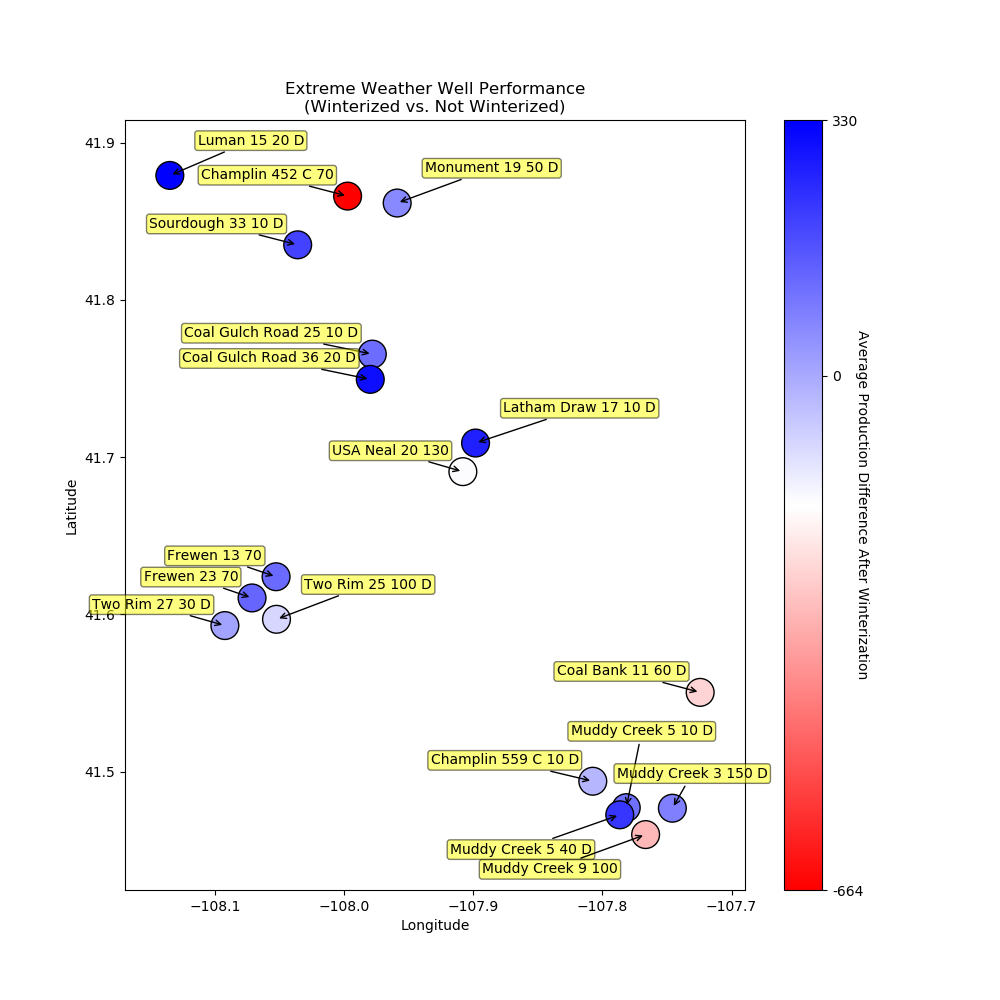
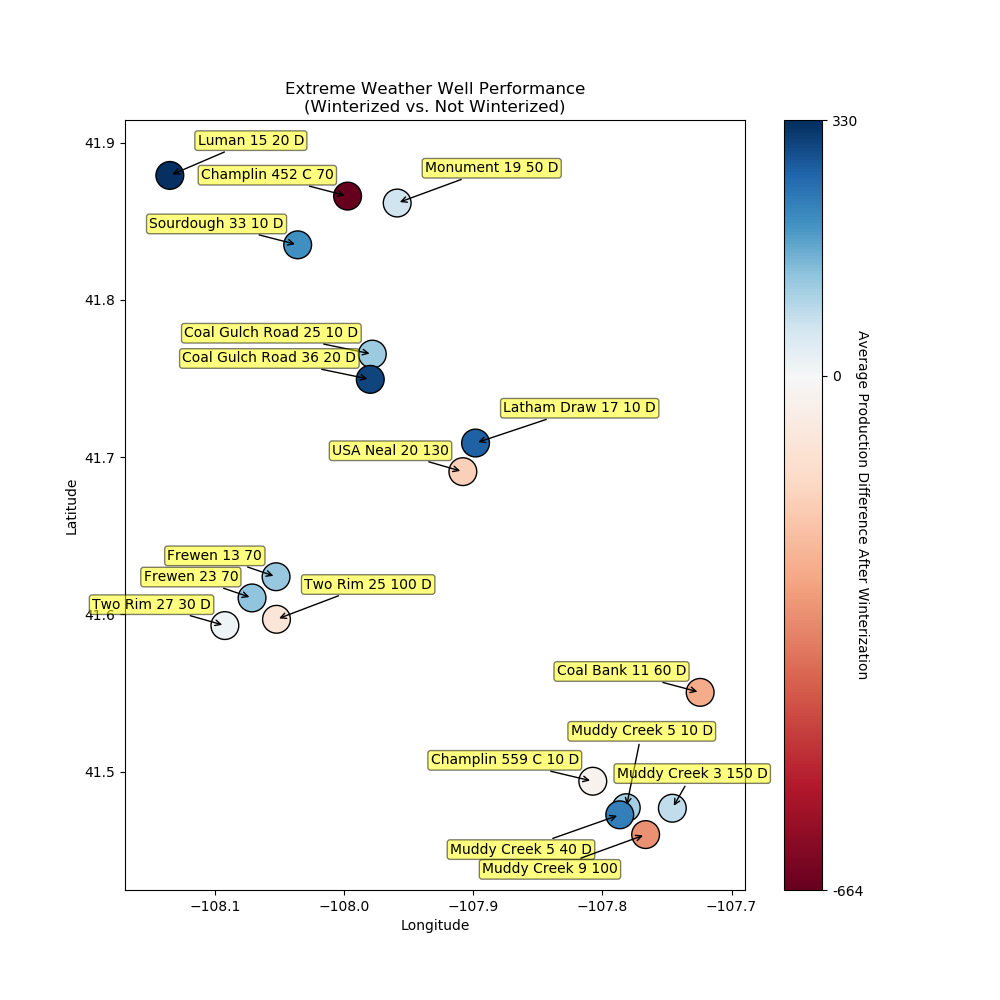
centering colorbar

diff --git a/winterize.py b/winterize.py
@@ -3,6 +3,7 @@ import numpy as np
 import pyodbc
 import sys
 import scipy.stats as stats
+import matplotlib
 import matplotlib.pyplot as plt
 
 
@@ -179,8 +180,39 @@ def loc_plot(df, date, worst=False):
 	plot_facility = plot_facility.groupby('FacilityName', as_index=False).agg(func)
 	plot_facility.columns = plot_facility.columns.droplevel(1)
 
+	def shiftedColorMap(cmap, start=0, midpoint=0.5, stop=1.0, name='shiftedcmap'):
+	    cdict = {'red': [], 'green': [], 'blue': [], 'alpha': []}
+
+	    reg_index = np.linspace(start, stop, 257)
+
+	    shift_index = np.hstack([
+	        np.linspace(0.0, midpoint, 128, endpoint=False),
+	        np.linspace(midpoint, 1.0, 129, endpoint=True)
+	    ])
+
+	    for ri, si in zip(reg_index, shift_index):
+	        r, g, b, a = cmap(ri)
+
+	        cdict['red'].append((si, r, r))
+	        cdict['green'].append((si, g, g))
+	        cdict['blue'].append((si, b, b))
+	        cdict['alpha'].append((si, a, a))
+
+	    newcmap = matplotlib.colors.LinearSegmentedColormap(name, cdict)
+	    plt.register_cmap(cmap=newcmap)
+
+	    return newcmap
+
+	map_max = plot_facility['Difference'].max()
+	map_min = plot_facility['Difference'].min()
+	map_range = map_max - map_min
+	mid_point = abs(map_min / map_range)
+
+	orig_cmap = matplotlib.cm.bwr
+	shifted_cmap = shiftedColorMap(orig_cmap, midpoint=mid_point, name='shifted')
+
 	scat = ax.scatter(plot_facility['Longitude'], plot_facility['Latitude'], \
-			   s=400, c=plot_facility['Difference'], cmap='bwr_r', edgecolor='k')
+			   s=400, c=plot_facility['Difference'], cmap=shifted_cmap, edgecolor='k')
 
 	top_left = plot_facility[plot_facility['FacilityName'].isin(\
 			   ['Champlin 452 C 70', 'Sourdough 33 10 D', \
